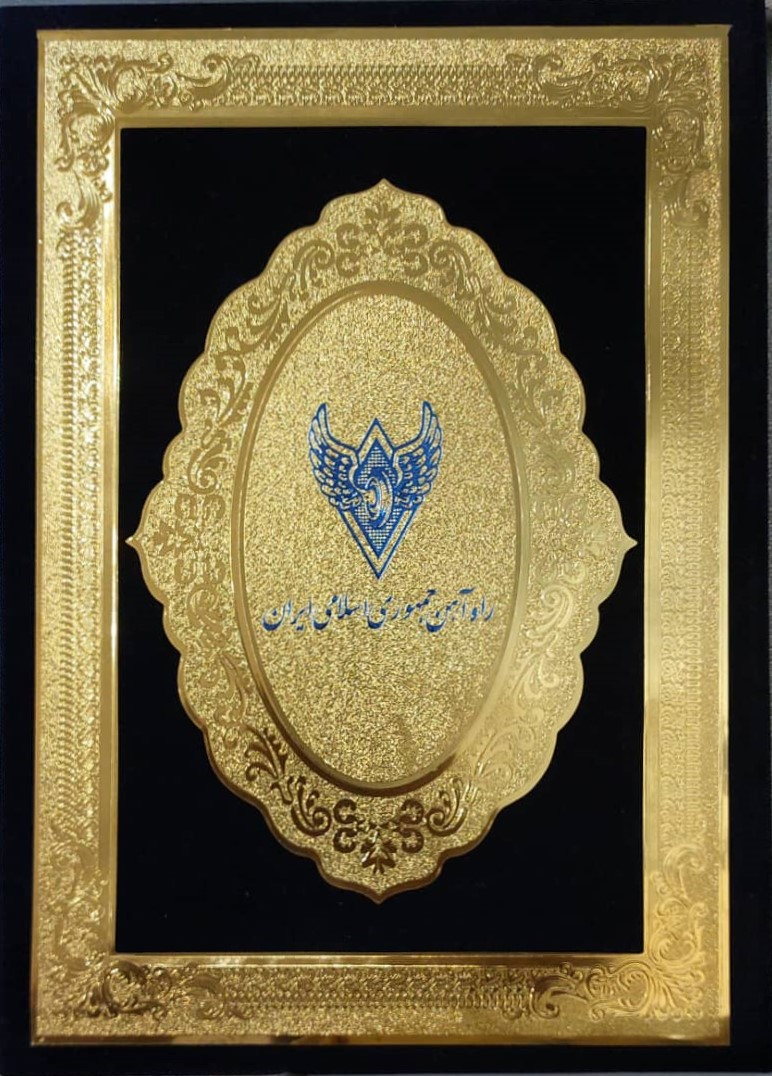
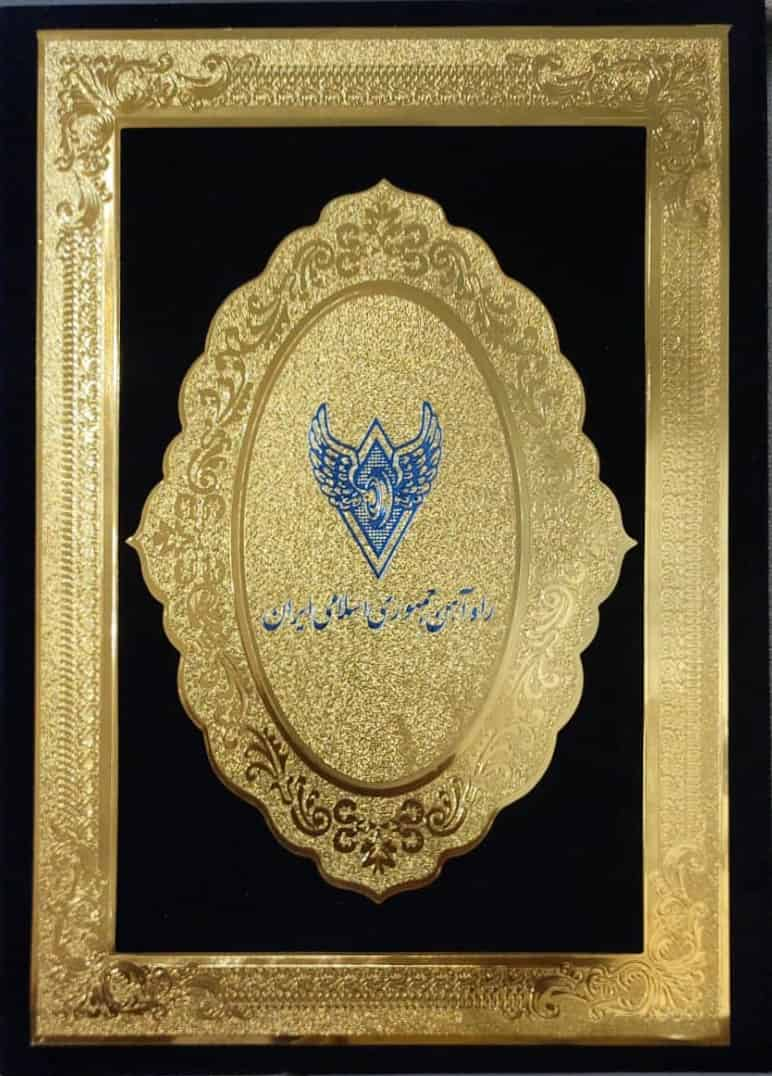
Compressed The Images

Changed region(s): [[0.4041, 0.3987, 0.5907, 0.5827]]

diff --git a/src/ProjectsSection.js b/src/ProjectsSection.js
@@ -126,7 +126,7 @@ export default function ProjectsSection() {
           <div className="bg-[#F7F7F7] min-h-[210px] rounded-lg shadow-lg overflow-hidden md:flex">
             <div className="md:w-1/4 flex items-center justify-center bg-[#F7F7F7] p-1">
               <img
-                src={`${BG}/images/RainFall_Competition_Thumb.png`}
+                src={`${BG}/images/RainFall_Competition_Thumb.jpg`}
                 alt="Mislabeled Time-Series Project Thumbnail"
                 className="w-full h-auto object-contain cursor-pointer max-h-48 md:max-h-full"
                 onClick={openTimeSeriesModal}
@@ -171,7 +171,7 @@ export default function ProjectsSection() {
           <div className="bg-[#F7F7F7] min-h-[210px] rounded-lg shadow-lg overflow-hidden md:flex">
             <div className="md:w-1/4 flex items-center justify-center bg-[#F7F7F7] p-1">
               <img
-                src={`${BG}/images/Railway_BoxPlot_Thumb.png`}
+                src={`${BG}/images/Railway_BoxPlot_Thumb.jpg`}
                 alt="Mislabeled Time-Series Project Thumbnail"
                 className="w-full h-auto object-contain cursor-pointer max-h-48 md:max-h-full"
                 onClick={openRailwaysModal}
@@ -207,7 +207,7 @@ export default function ProjectsSection() {
               onClick={(e) => e.stopPropagation()}
             >
               <img
-                src={`${BG}/images/RainFall_Competition.png`}
+                src={`${BG}/images/RainFall_Competition.jpg`}
                 alt="Full-sized Mislabeled Time-Series Project"
                 className="w-full object-contain"
               />
@@ -224,7 +224,7 @@ export default function ProjectsSection() {
               onClick={(e) => e.stopPropagation()}
             >
               <img
-                src={`${BG}/images/MNIST_Progress.png`}
+                src={`${BG}/images/MNIST_Progress.jpg`}
                 alt="Full-sized MNIST/Fashion MNIST Project"
                 className="w-full object-contain"
               />

diff --git a/src/AboutSection.js b/src/AboutSection.js
@@ -108,7 +108,7 @@ export default function AboutSection() {
             {isAbstractTooltipVisible && (
               <div className="absolute -top-16 left-1/2 transform -translate-x-1/2 z-10">
                 <img
-                  src={`${BG}/images/Abstract_Thumb.png`}
+                  src={`${BG}/images/Abstract_Thumb.jpg`}
                   alt="Abstract thumbnail"
                   className="w-1/2 h-auto rounded shadow-lg"
                   loading="lazy"
@@ -187,7 +187,7 @@ export default function AboutSection() {
             onClick={(e) => e.stopPropagation()}
           >
             <img
-              src={`${BG}/images/Abstract.png`}
+              src={`${BG}/images/Abstract.jpg`}
               alt="Letter of MSC Thesis"
               className="w-full object-contain"
               loading="lazy"
